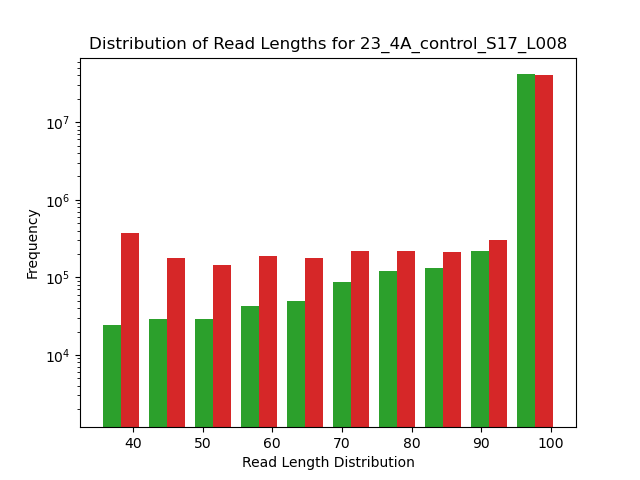
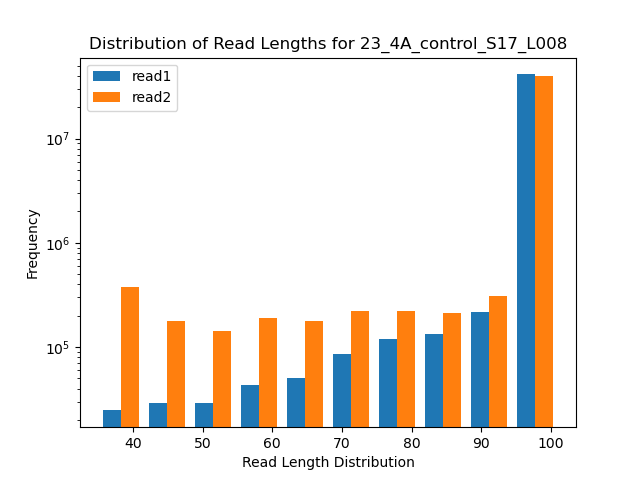
updated graphs

diff --git a/read_dist_graphs.py b/read_dist_graphs.py
@@ -1,0 +1,38 @@
+#!/usr/bin/env python
+
+import matplotlib.pyplot as plt
+import gzip 
+
+# open 22 files
+with gzip.open('/projects/bgmp/rferina/bioinfo/Bi622/QAA/trimmomatic_outputs/22read1_forward_paired.fastq.gz', 'rt') as forward22:
+    with gzip.open('/projects/bgmp/rferina/bioinfo/Bi622/QAA/trimmomatic_outputs/22read2_reverse_paired.fastq.gz', 'rt') as reverse22:
+        line_num = 0
+        read_1 = []
+        for line in forward22:
+            # line = line.decode()
+            line = line.strip('\n')
+            line_num += 1
+            read_len = 0
+            # obtain sequence line
+            if line_num % 4 == 2:
+                read_len = len(line)
+                read_1.append(read_len)
+        line_count = 0
+        read_2 = []
+        for seq in reverse22:
+            seq = seq.strip('\n')
+            line_count += 1
+            read_length = 0
+            # obtain sequence line
+            if line_count % 4 == 2:
+                read_length = len(seq)
+                read_2.append(read_length)
+    
+# graph 22_both distribution   
+plt.hist([read_1,read_2], label=['read1', 'read2']) 
+plt.yscale("log")  
+plt.legend()
+plt.ylabel("Frequency")
+plt.xlabel("Read Length Distribution")
+plt.title("Distribution of Read Lengths for 22_3H_both_S16_L008") 
+plt.savefig('read_dist_22.png')

diff --git a/read_23_dist_graph.py b/read_23_dist_graph.py
@@ -1,0 +1,37 @@
+#!/usr/bin/env python
+
+import matplotlib.pyplot as plt
+import gzip 
+
+# open 23 files
+with gzip.open('/projects/bgmp/rferina/bioinfo/Bi622/QAA/trimmomatic_outputs/23read1_forward_paired.fastq.gz', 'rt') as forward23:
+    with gzip.open('/projects/bgmp/rferina/bioinfo/Bi622/QAA/trimmomatic_outputs/23read2_reverse_paired.fastq.gz', 'rt') as reverse23:
+        line_num = 0
+        reads_1 = []
+        for line in forward23:
+            line = line.strip('\n')
+            line_num += 1
+            read = 0
+            # obtain sequence line
+            if line_num % 4 == 2:
+                read = len(line)
+                reads_1.append(read)
+        line_count = 0
+        reads_2 = []
+        for seqs in reverse23:
+            seqs = seqs.strip('\n')
+            line_count += 1
+            reads_length = 0
+            # obtain sequence line
+            if line_count % 4 == 2:
+                reads_length = len(seqs)
+                reads_2.append(reads_length)
+    
+# graph 23 distribution   
+plt.hist([reads_1,reads_2], label=['read1', 'read2']) 
+plt.legend()
+plt.yscale("log")  
+plt.ylabel("Frequency")
+plt.xlabel("Read Length Distribution")
+plt.title("Distribution of Read Lengths for 23_4A_control_S17_L008") 
+plt.savefig('read_dist_23.png')
